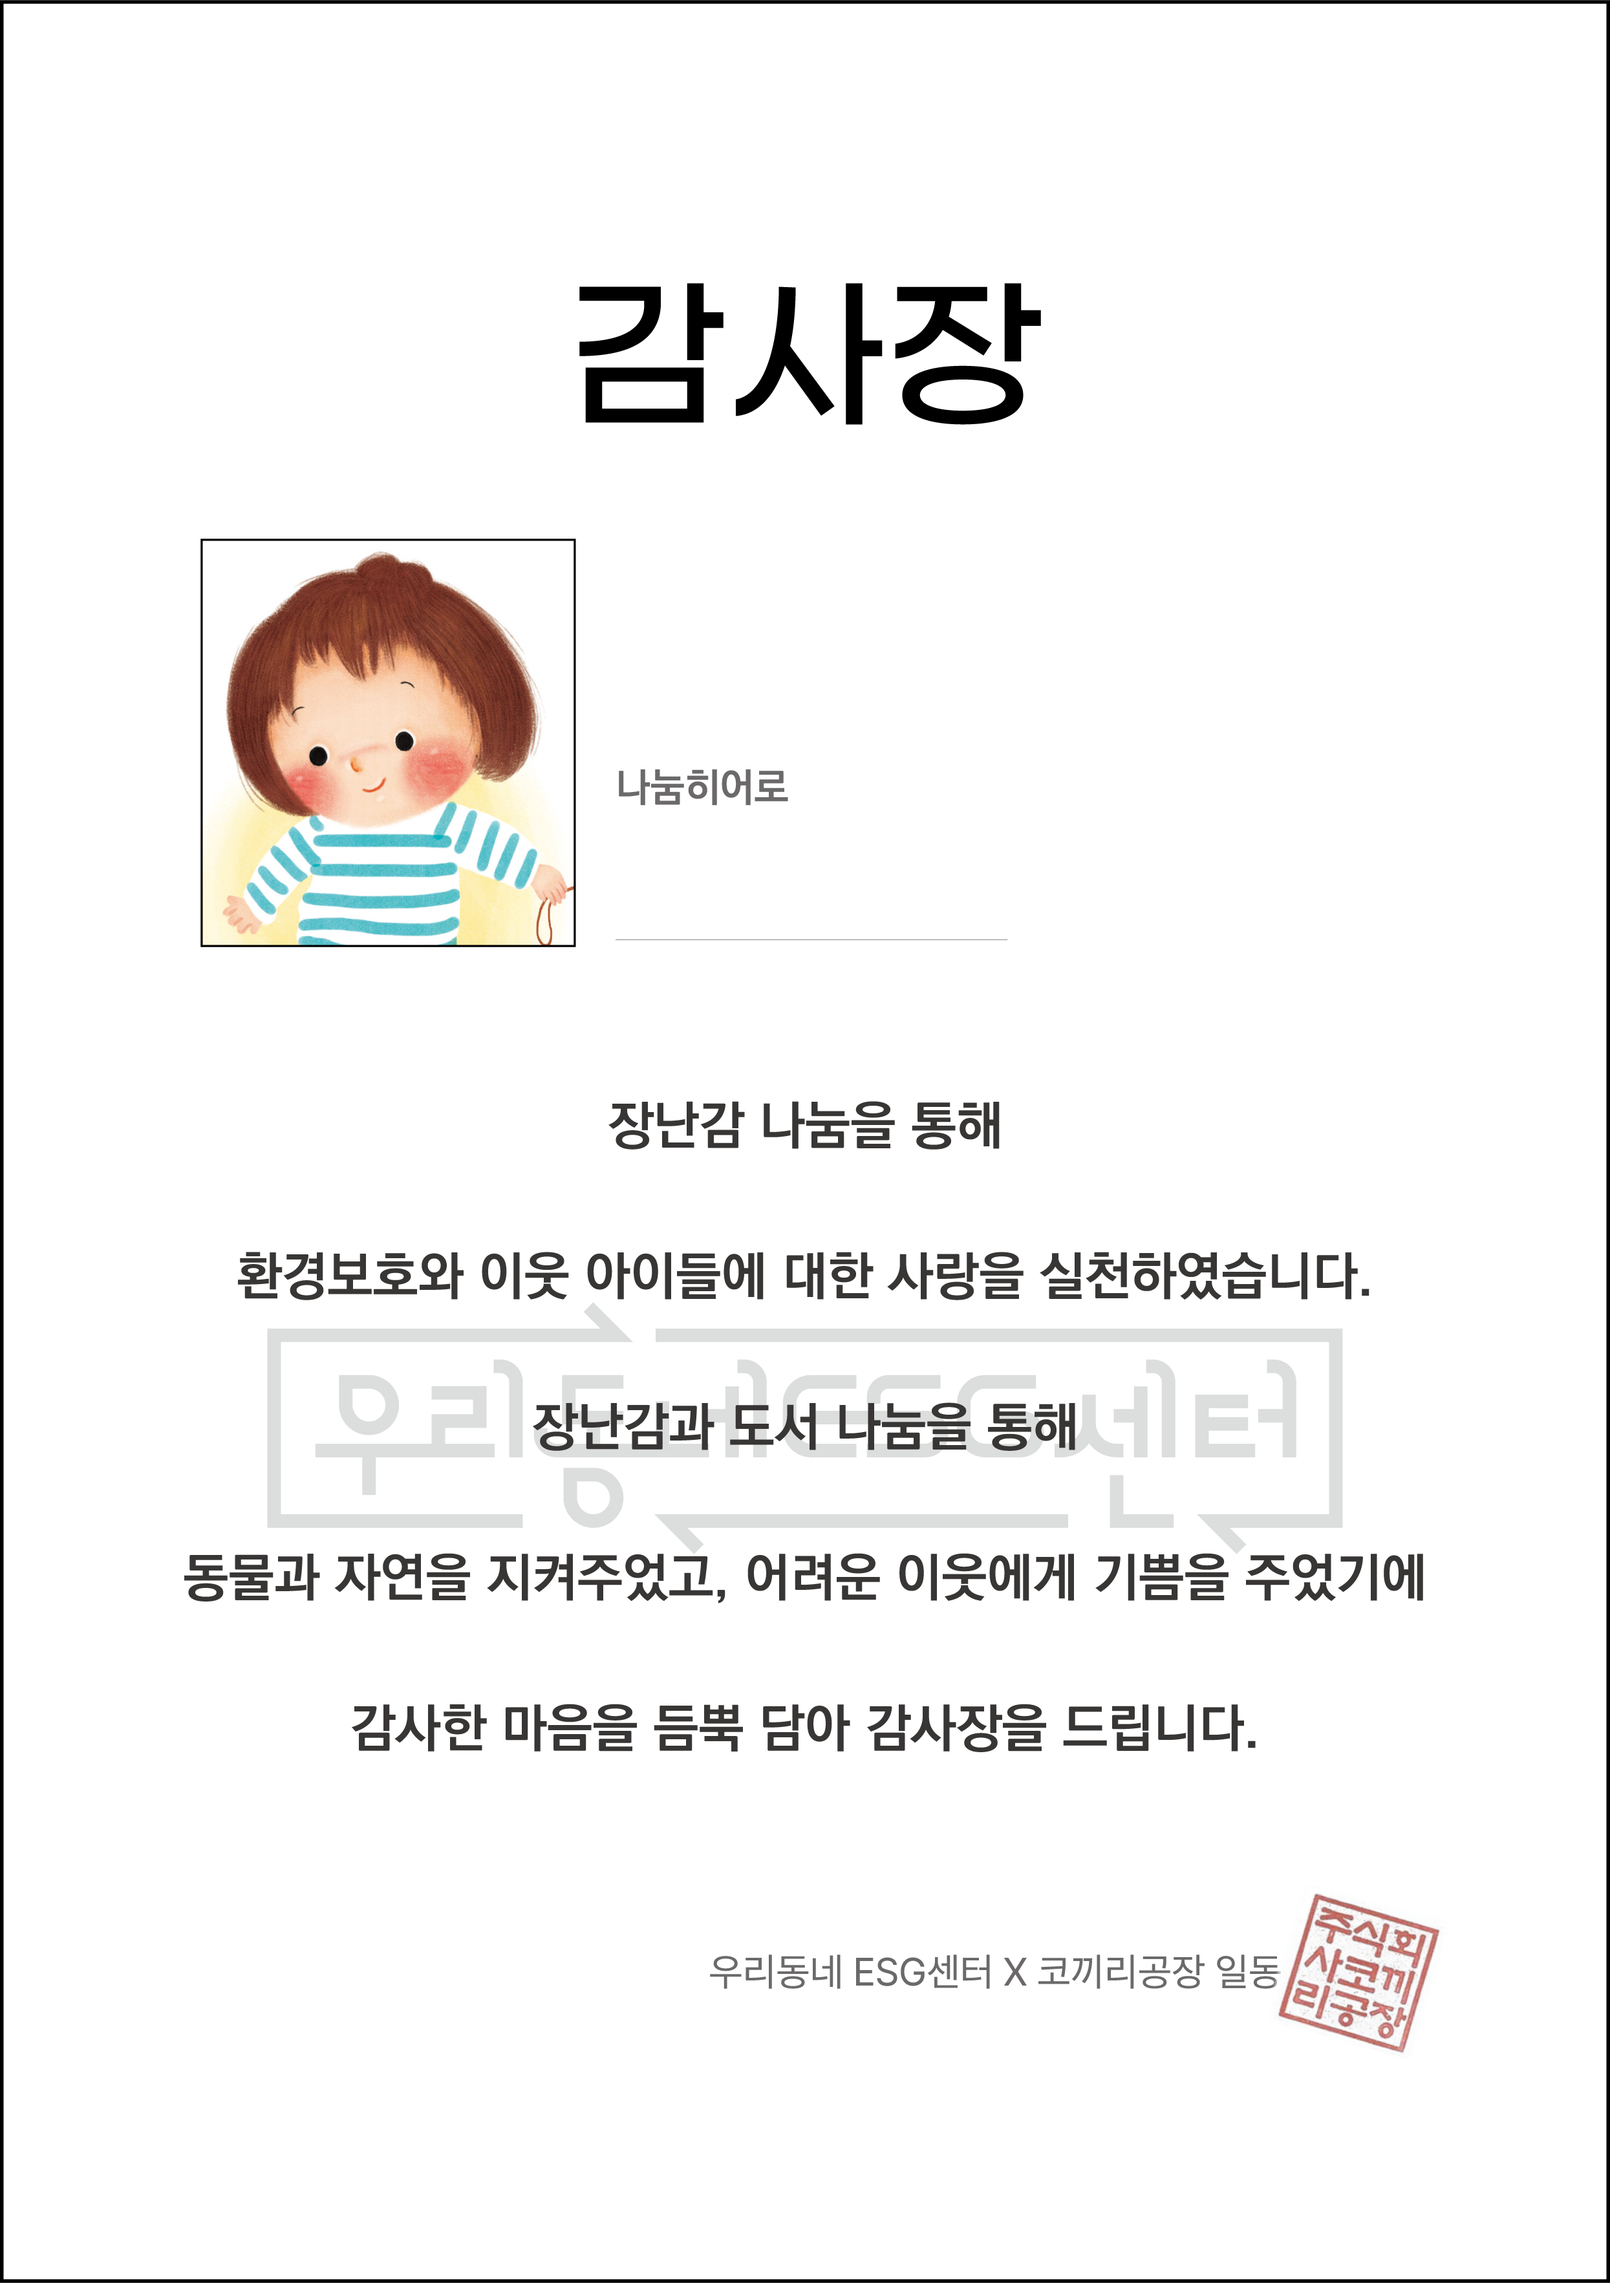
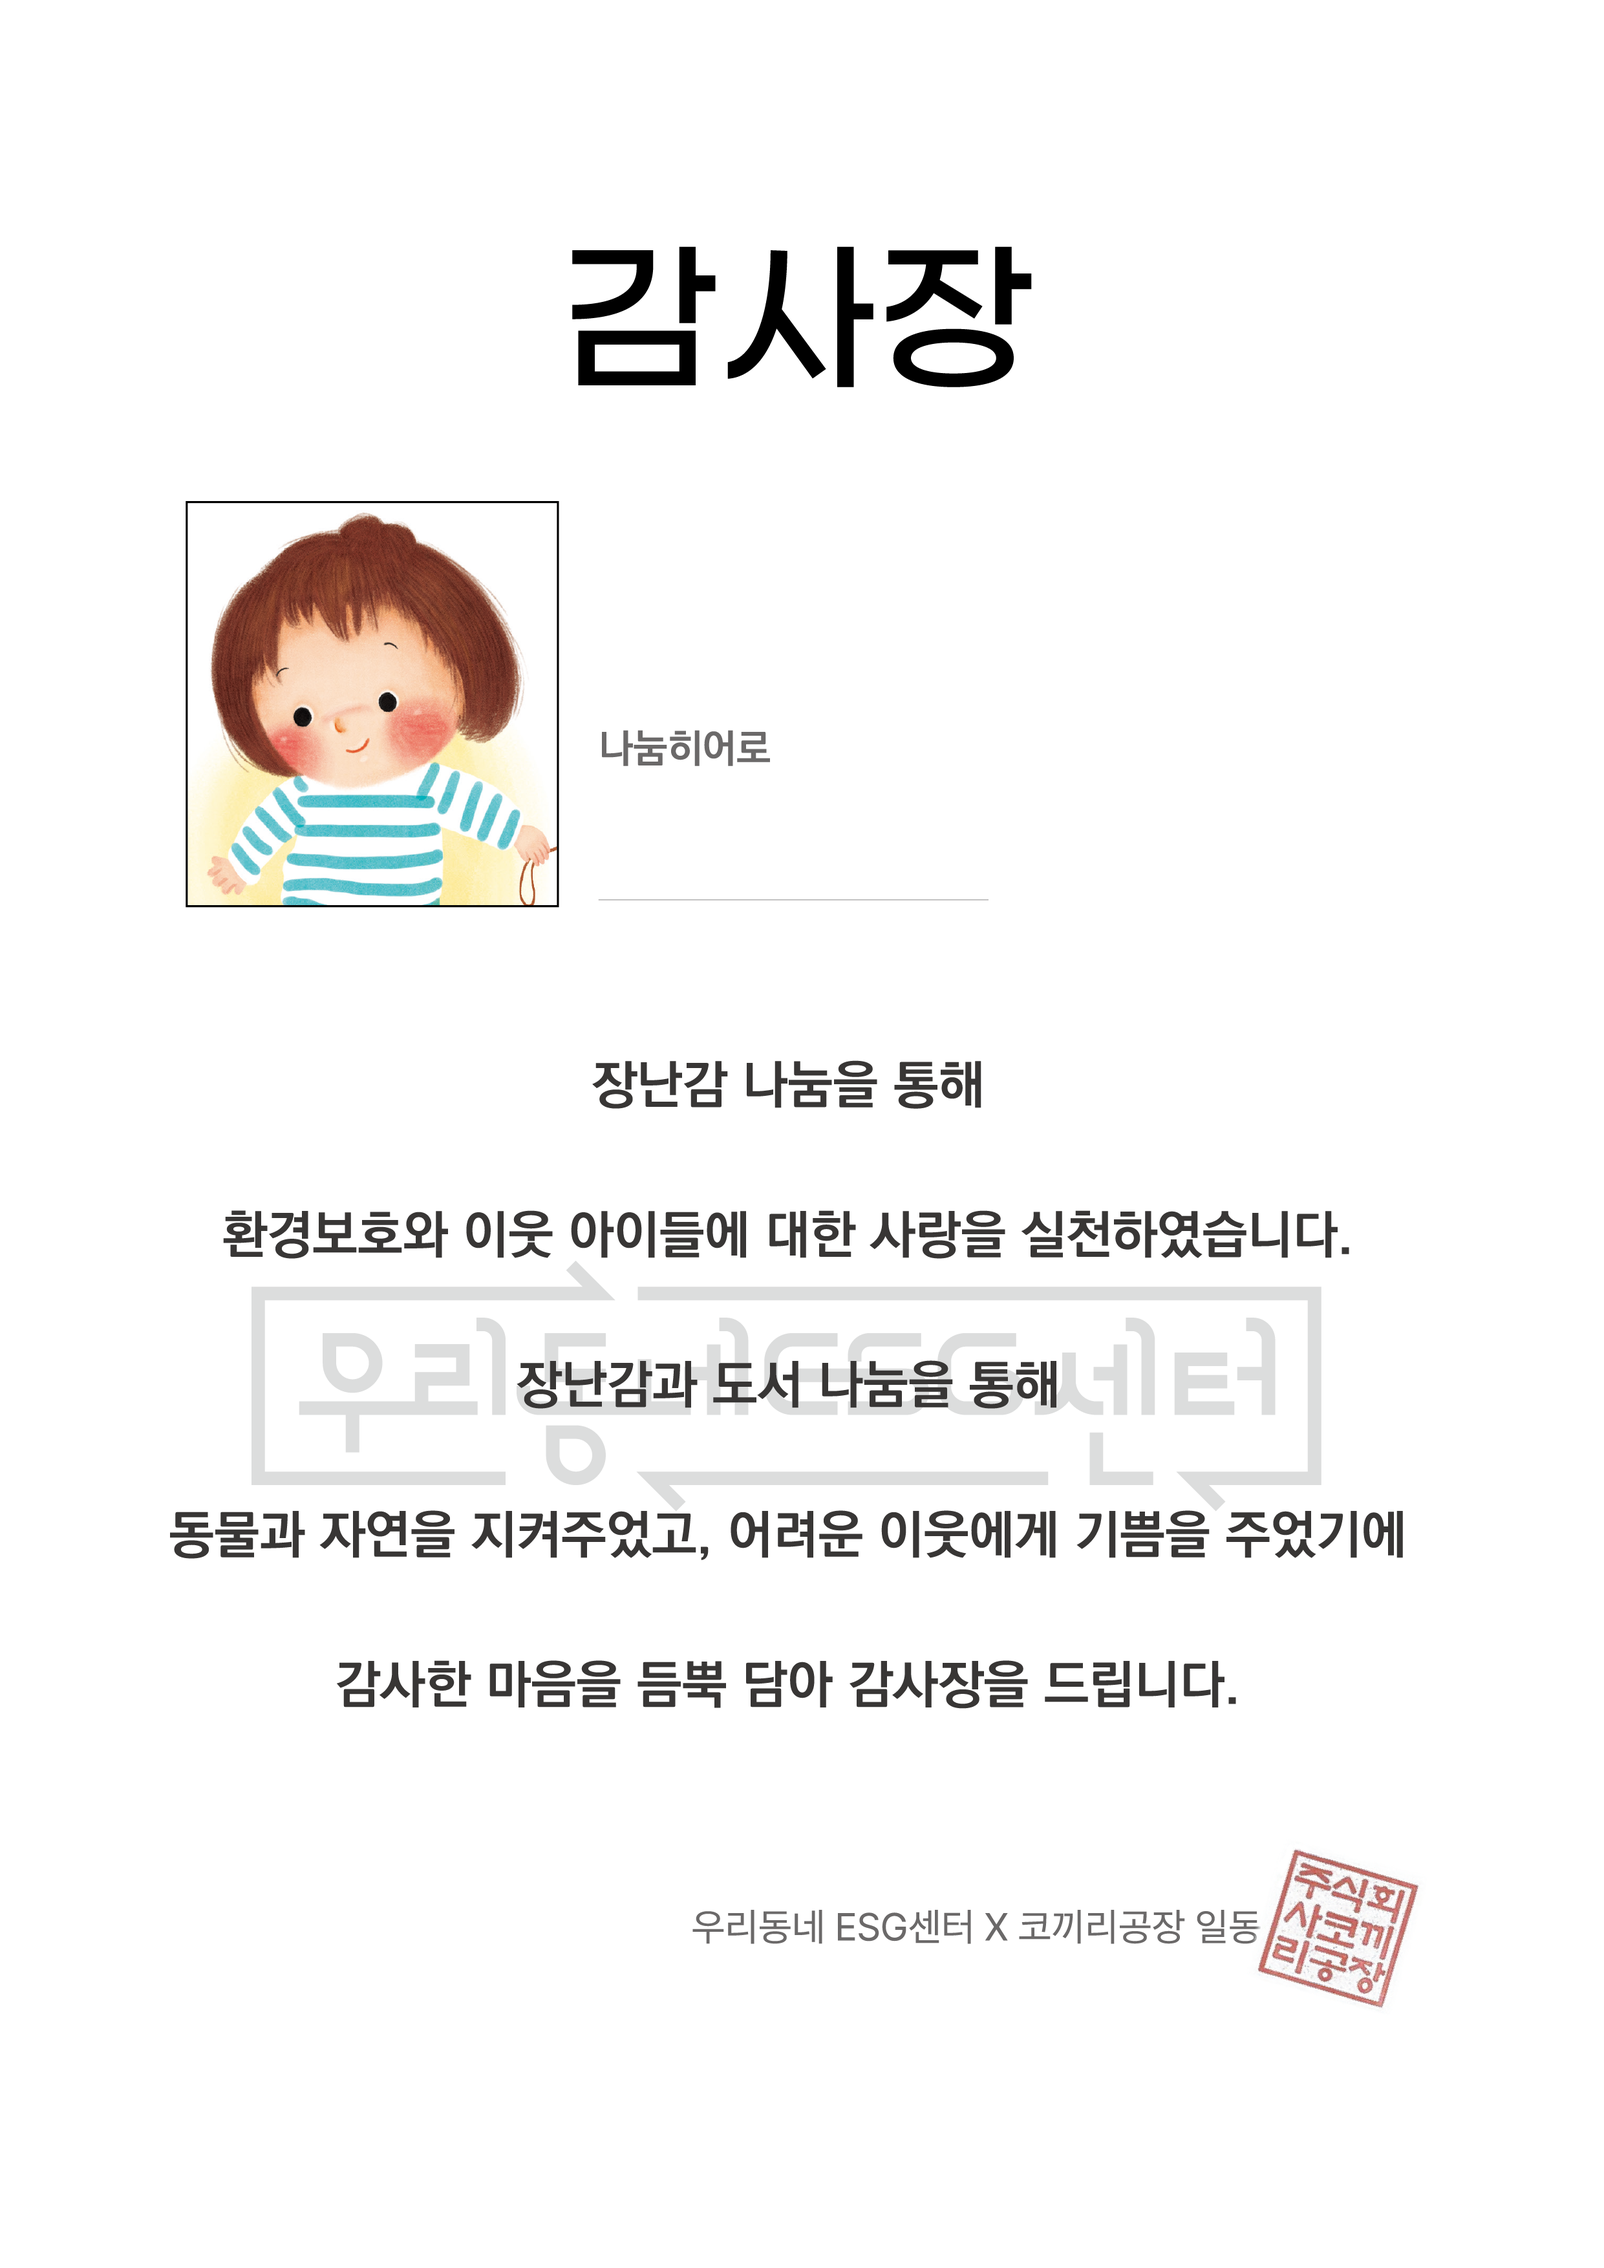
feat: update background image and text box position

diff --git a/app.py b/app.py
@@ -81,7 +81,7 @@ def generate_pdf(name, pdf_path, font_path):
 
     # 텍스트 추가 (이름)
     font_size = 24
-    text_rect = fitz.Rect(20, 310, 500, 350)  # 이름 텍스트를 표시할 영역
+    text_rect = fitz.Rect(20, 300, 500, 350)  # 이름 텍스트를 표시할 영역
     page.insert_textbox(
         text_rect, name, fontsize=font_size, fontfile=font_path, fontname="CustomFont", align=fitz.TEXT_ALIGN_CENTER
     )
